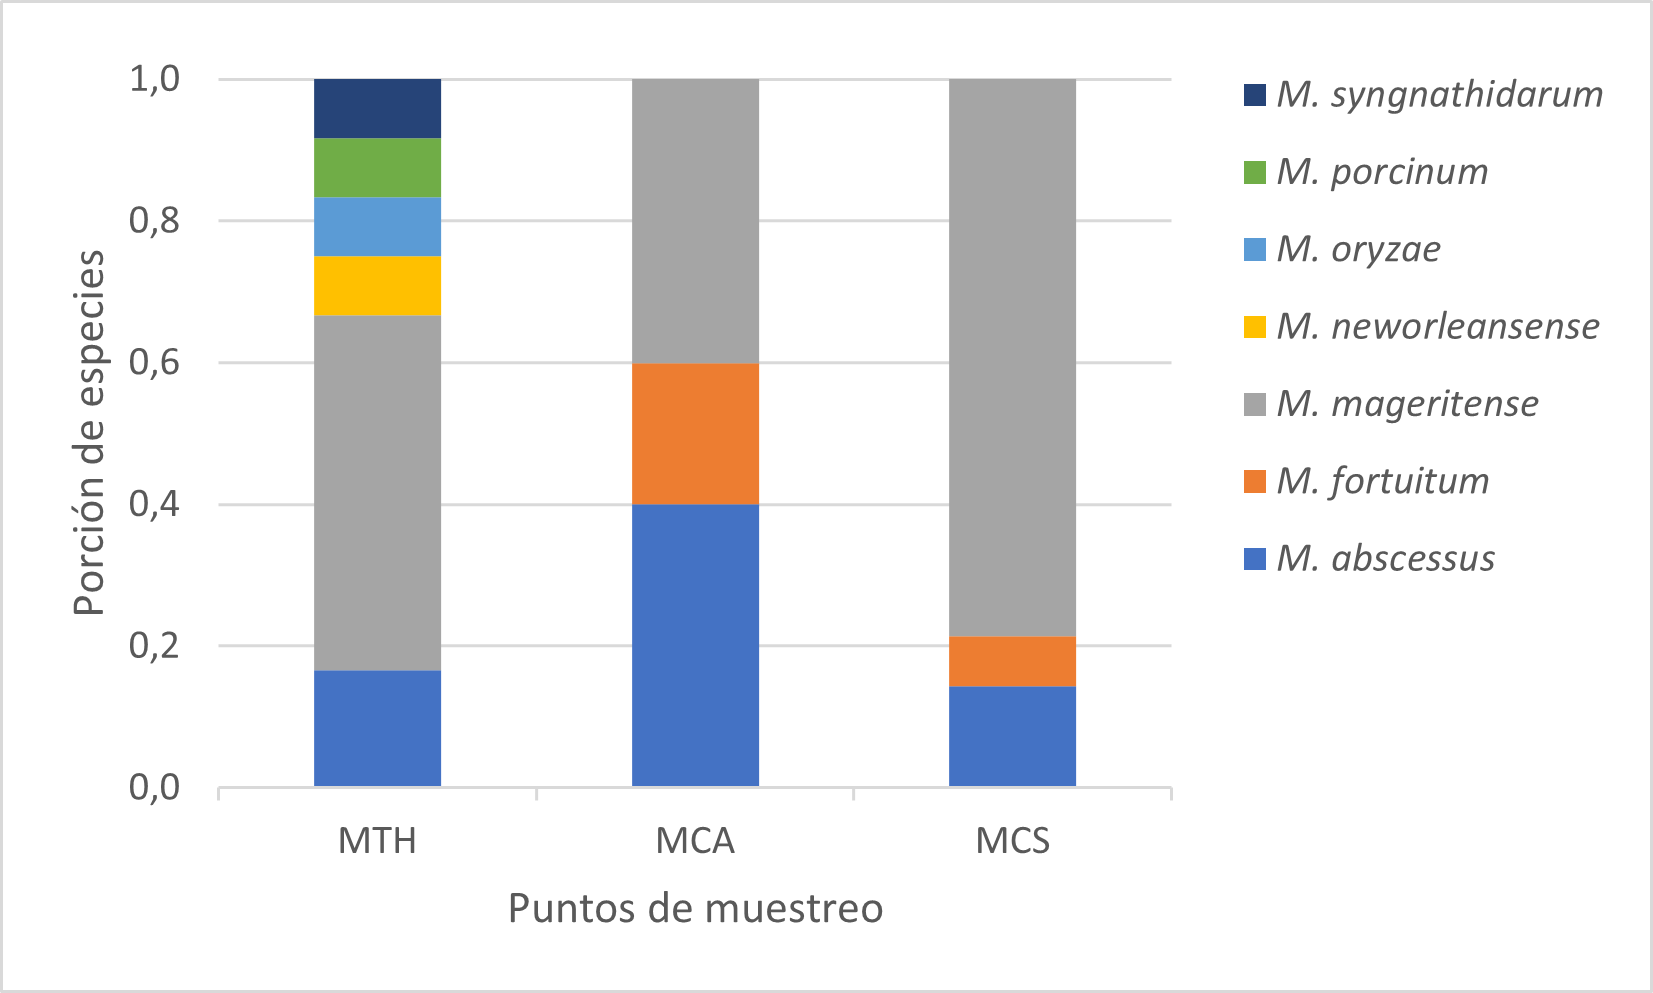
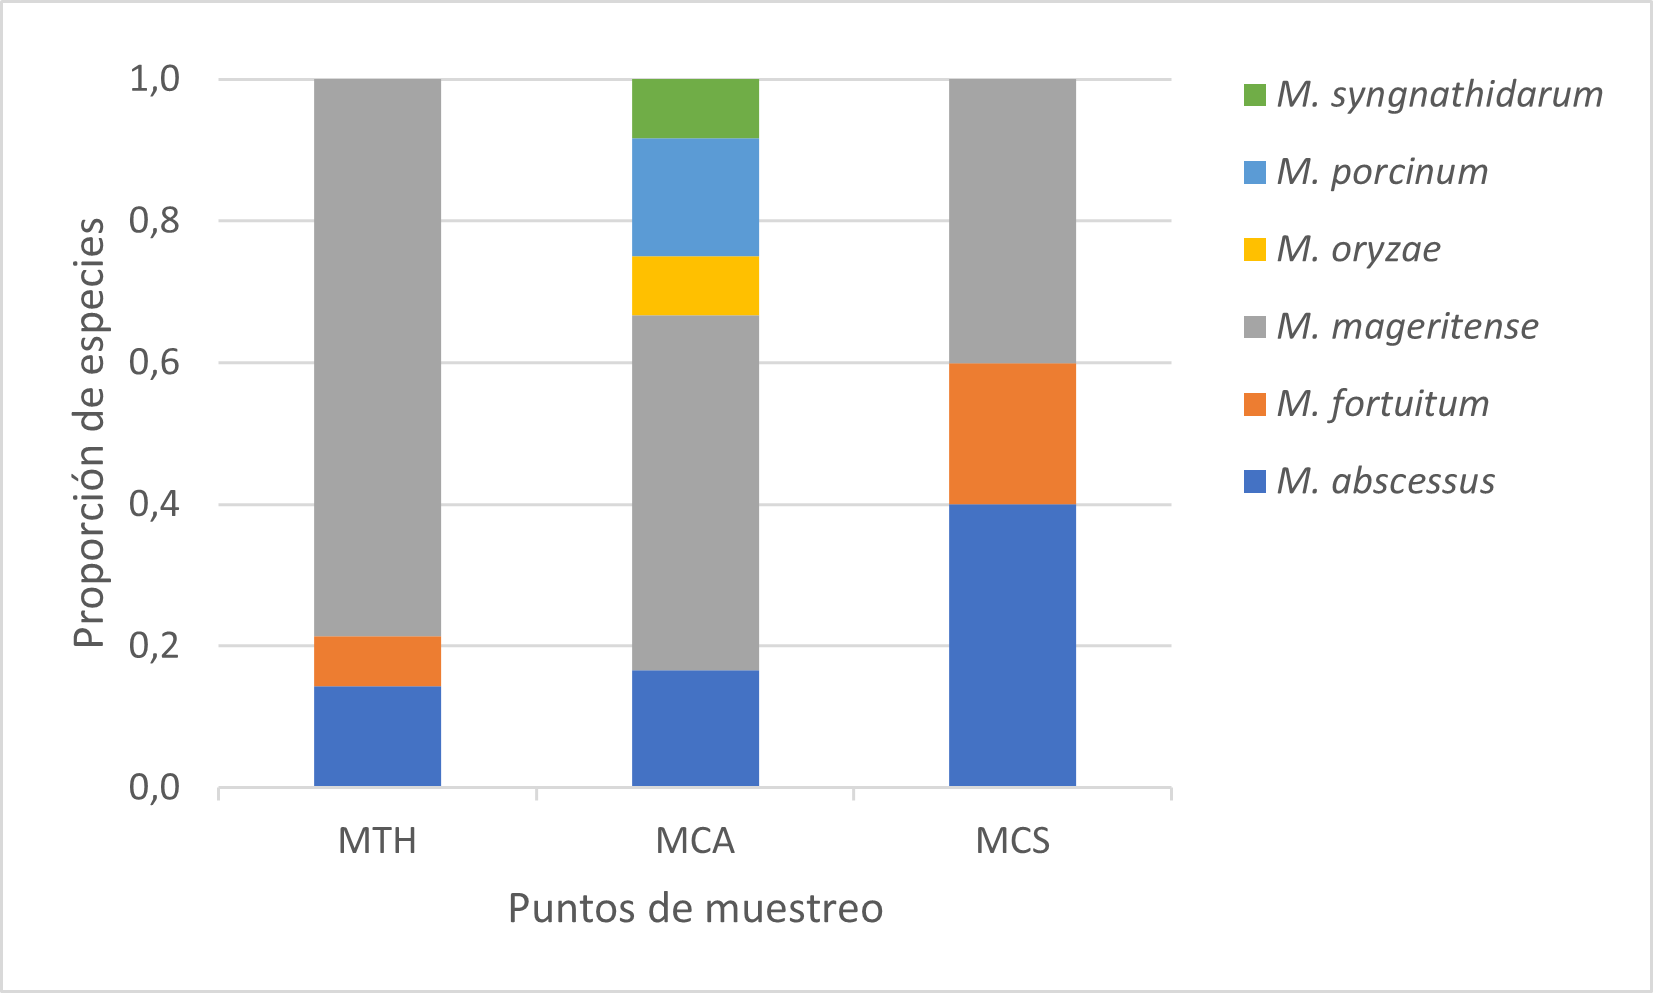
Diversiry

diff --git a/PTAR_Palandacocha.md b/PTAR_Palandacocha.md
@@ -294,7 +294,7 @@ pal_rich
 ```
 
     ##  MTH  MCA  MCS Tena 
-    ##    6    3    3    7
+    ##    3    5    3    6
 
 ``` r
 # Cálculo del índice Simpson
@@ -303,7 +303,7 @@ pal_simp
 ```
 
     ##       MTH       MCA       MCS      Tena 
-    ## 0.6944444 0.6400000 0.3571429 0.5785640
+    ## 0.3571429 0.6805556 0.6400000 0.5764828
 
 ### Índice de Shannon
 
@@ -320,4 +320,4 @@ pal_shan
 ```
 
     ##       MTH       MCA       MCS      Tena 
-    ## 1.4735024 1.0549202 0.6559757 1.2378197
+    ## 0.6559757 1.3579779 1.0549202 1.1931006
